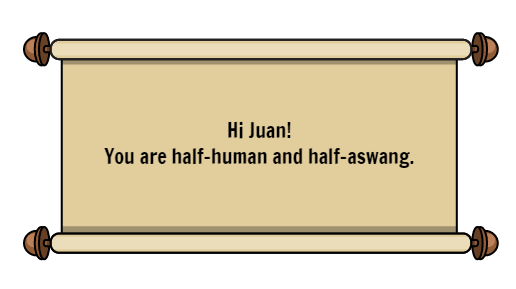
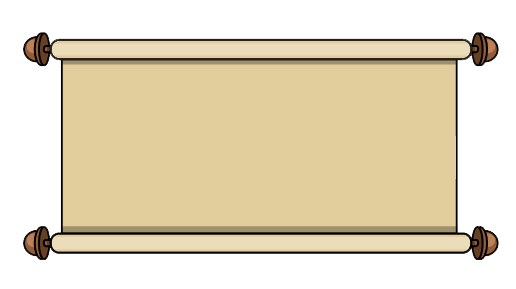
*updates for instructions

diff --git a/Assets/_JuanDelaCruz/scripts/signalsproject/view/MapView.cs b/Assets/_JuanDelaCruz/scripts/signalsproject/view/MapView.cs
@@ -19,7 +19,9 @@ namespace JuanDelaCruz {
 		public bool isActive;
 		public UITexture script;
 		public Texture[] scriptsTextures;
-
+		public GameObject instructions1;
+		public GameObject instructions2;
+		public GameObject instructions3;
 		public void EnableMap() {
 			StartCoroutine (WaitFrameEnd());
 			holder.SetActive(true);
@@ -42,7 +44,20 @@ namespace JuanDelaCruz {
 				script.mainTexture = scriptsTextures [scriptIndex];
 			} else {
 				script.gameObject.SetActive (false);
+				instructions1.SetActive (true);
 			}
+		}
+
+		public void ShowInstructions2() {
+			instructions1.SetActive (false);
+			instructions2.SetActive (true);
+		}
+		public void ShowInstructions3() {
+			instructions2.SetActive (false);
+			instructions3.SetActive (true);
+		}
+		public void CloseInstructions() {
+			instructions3.SetActive (false);
 		}
 
 		public IEnumerator WaitFrameEnd() {
